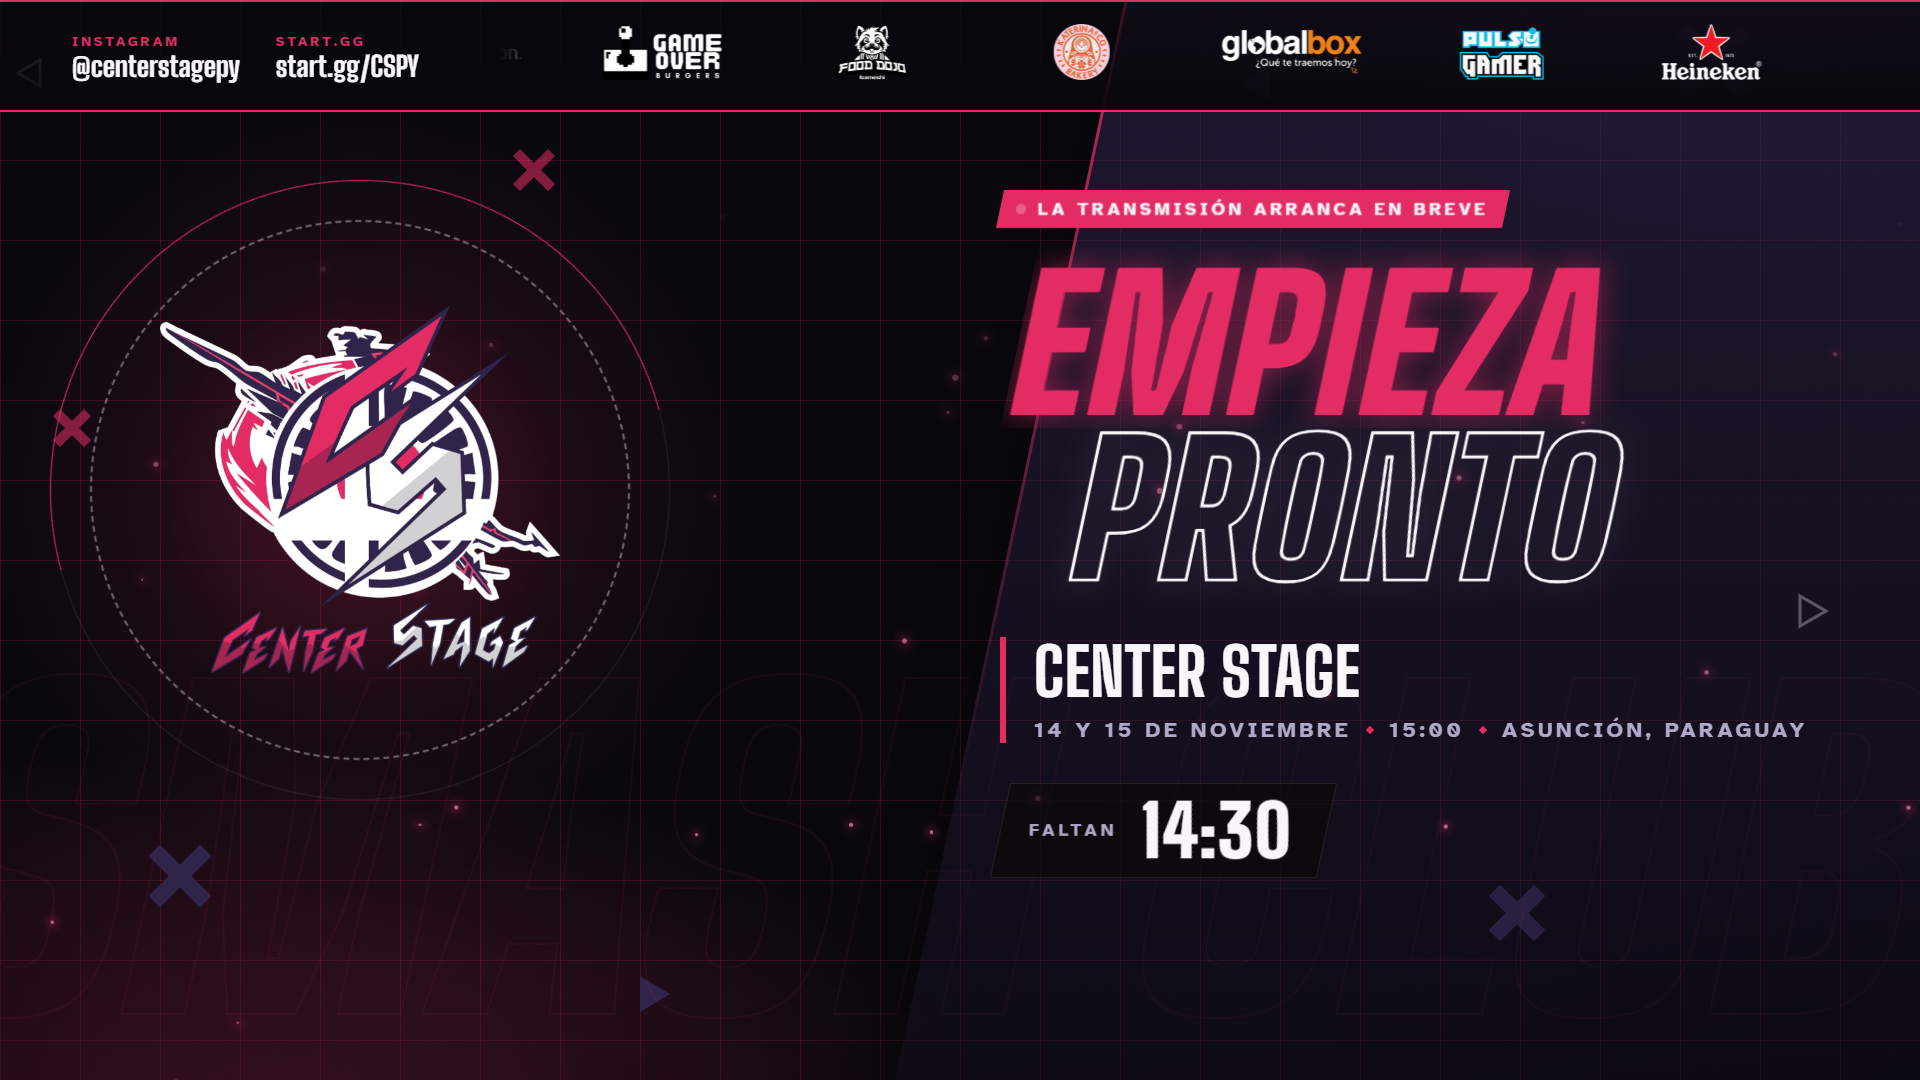
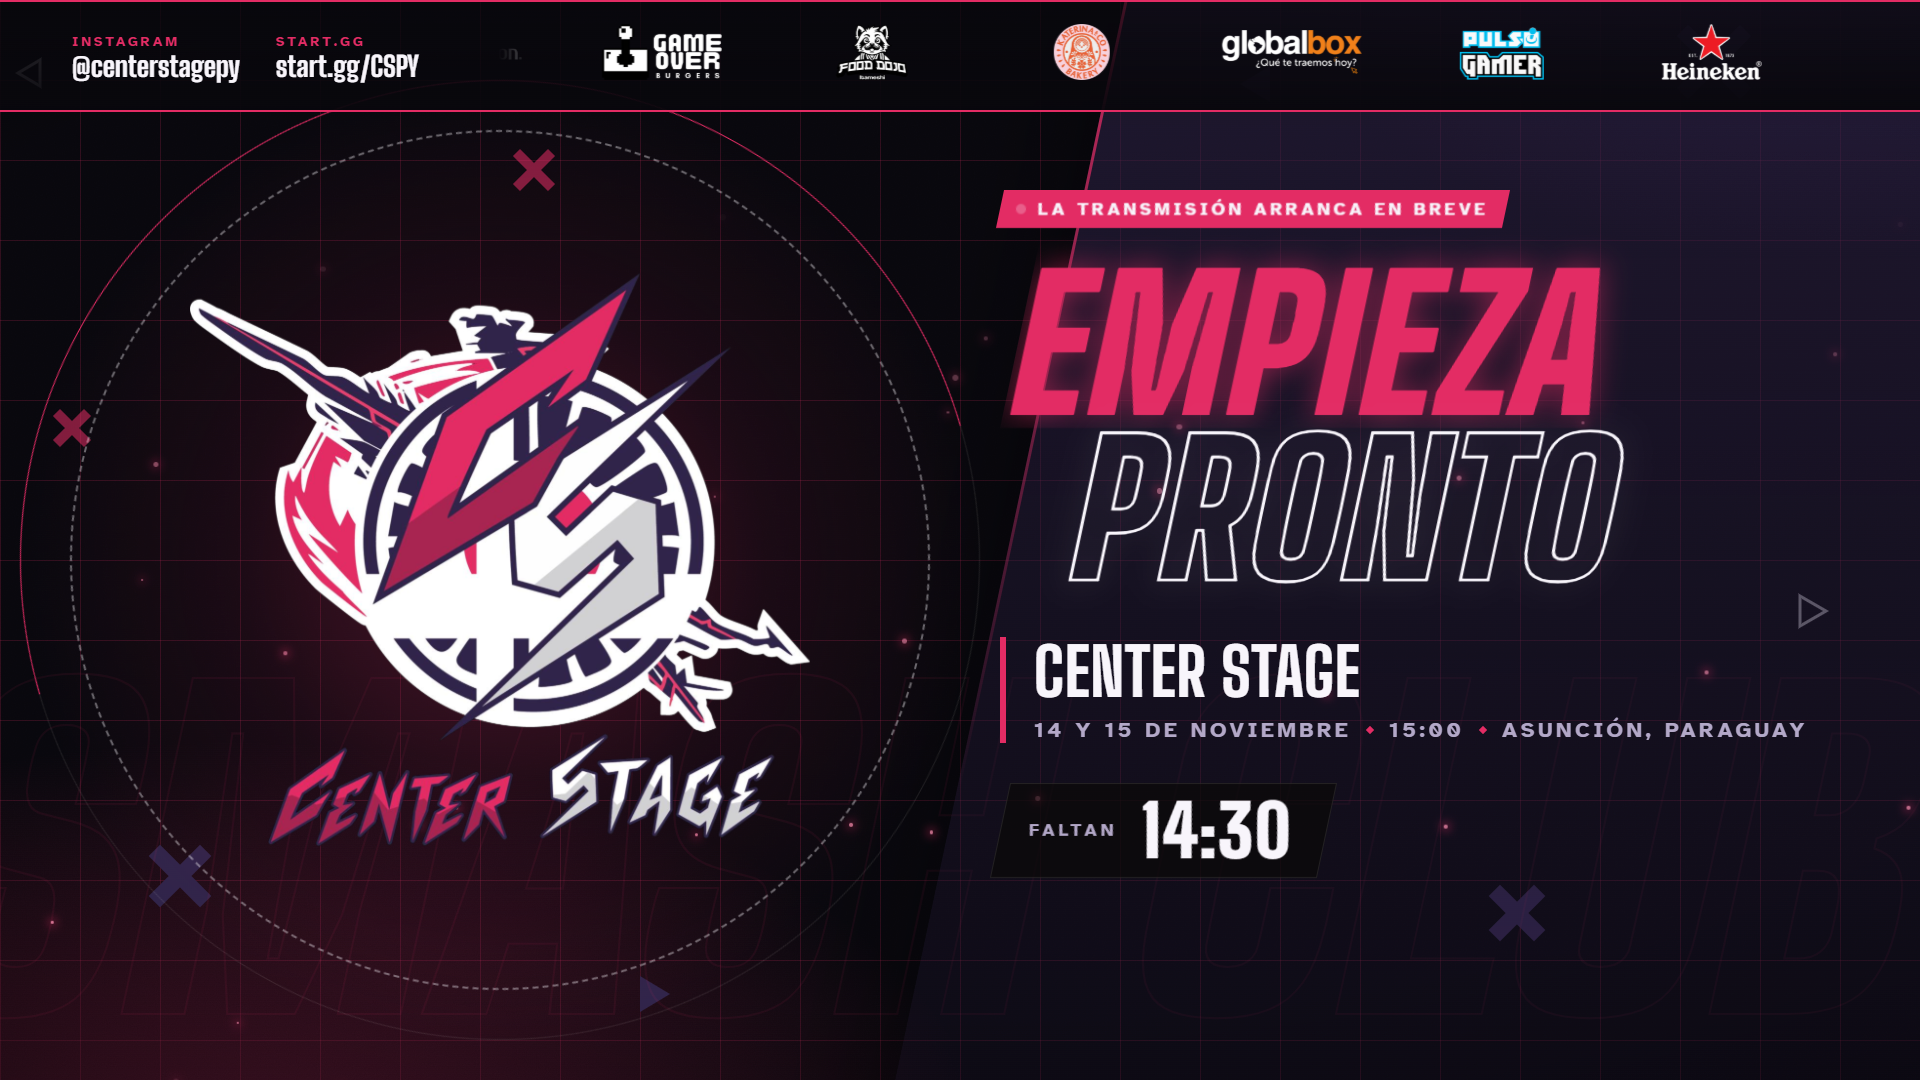
style: Center Stage starting soon emblem per Figma mockup (SH-OBS-01)
Larger logo (~620 px) and wider rings (860/960 px) centred at (500, 560).

Changed region(s): [[0.0625, 0.2444, 0.4375, 0.7944], [0.0312, 0.3361, 0.0625, 0.3667]]

diff --git a/stream-assets/obs-overlays/assets/css/starting-soon.css b/stream-assets/obs-overlays/assets/css/starting-soon.css
@@ -180,30 +180,30 @@
 }
 
 /* ------------------------------------------------------------------ auspiciantes arriba */
-/* Anillos y logo centrados en su zona: la franja izquierda, entre el borde y el
-   bloque del título, debajo de la barra. Centro en (360, 490), 640 px. */
+/* Composición según el diseño de Figma del 13/11/2026 (Center Stage):
+   logo grande (~620 px) y anillo punteado de ~860 px, centrados en (500, 560). */
 .auspicio-arriba .escena-inicio .emblema {
-  left: 40px;
-  top: 170px;
-  width: 640px;
-  height: 640px;
+  left: 50px;
+  top: 110px;
+  width: 900px;
+  height: 900px;
 }
 .auspicio-arriba .escena-inicio .emblema-luz {
-  width: 800px;
-  height: 800px;
+  width: 1000px;
+  height: 1000px;
 }
 .auspicio-arriba .escena-inicio .anillo-1 {
-  width: 540px;
-  height: 540px;
+  width: 860px;
+  height: 860px;
 }
 .auspicio-arriba .escena-inicio .anillo-2 {
-  width: 620px;
-  height: 620px;
+  width: 960px;
+  height: 960px;
 }
 .auspicio-arriba .escena-inicio .emblema .logo-evento,
 .auspicio-arriba .escena-inicio .emblema .logo-club {
-  width: 400px;
-  height: 400px;
+  width: 620px;
+  height: 620px;
 }
 .auspicio-arriba .escena-inicio .bloque {
   top: 190px;

diff --git a/docs/operations/sh-obs-01.md b/docs/operations/sh-obs-01.md
@@ -329,3 +329,12 @@ Reporte del 13/11/2026, con un dibujo de la ubicación esperada.
 - **Redes de Center Stage:** Instagram `@centerstagepy` y start.gg `start.gg/CSPY`, sin Discord ni sitio, en el perfil. El ZIP quita `redes` y `sitio` de su `evento.js` y deja un comentario que indica dónde están, porque el perfil los pisaría.
 
 ZIP regenerado y probado dentro de la carpeta TSH simulada: las 10 escenas leen TSH, las redes aparecen en «Empieza pronto», auspiciantes y cierre, y no queda ningún texto de ejemplo.
+
+## 16. «Empieza pronto» según el diseño de Figma
+
+El 13/11/2026 llegó una maqueta hecha en Figma. Medidas tomadas sobre la imagen (escala ≈ 2,42):
+- logo de ~620 px centrado en (500, 560);
+- anillo punteado de 860 px y anillo sólido de 960 px, con el mismo centro;
+- luz de 1000 px.
+
+El bloque de título no cambia. Se aplica solo con `auspiciantesArriba` (perfil de Center Stage). ZIP regenerado.
